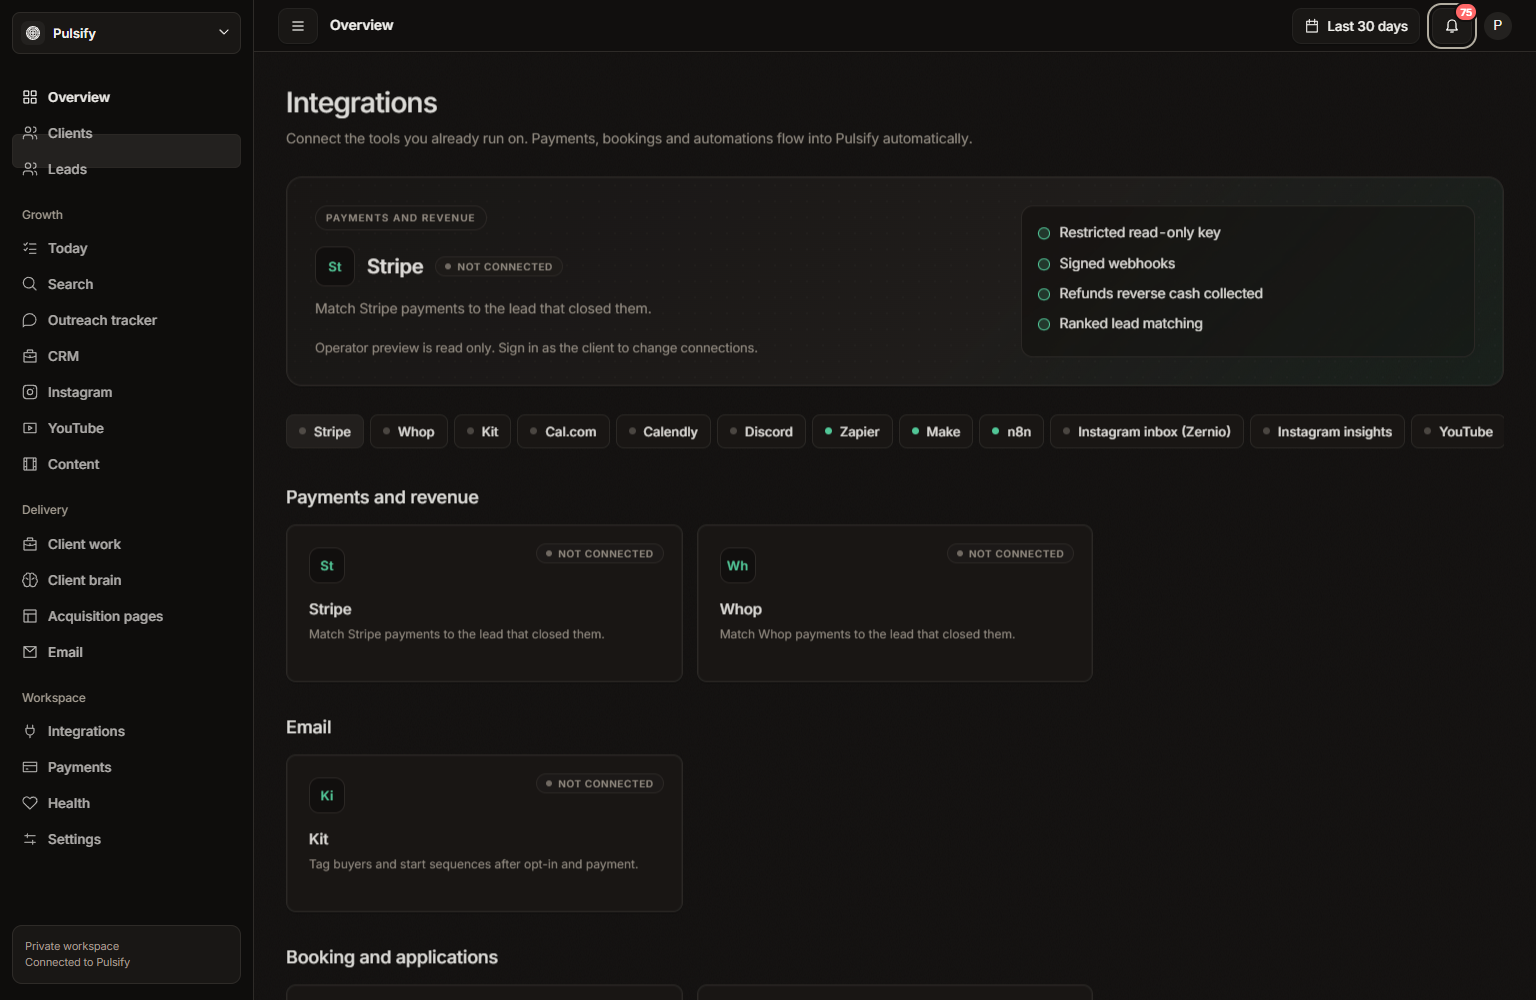
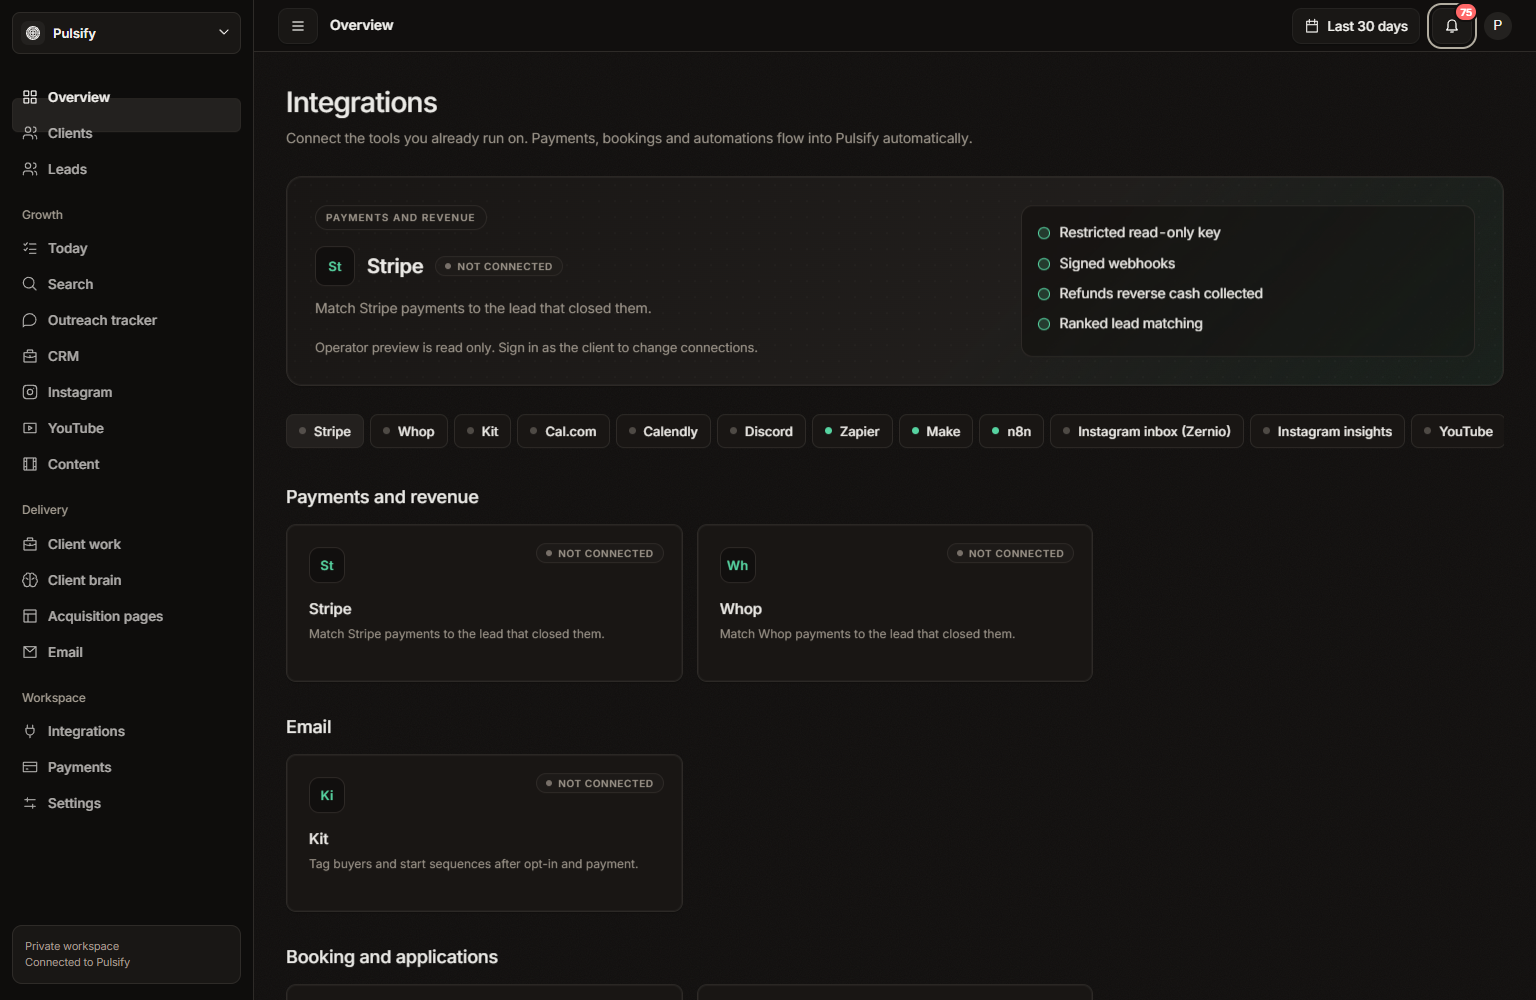
Remove Health from the operator console (founder: unnecessary)

Changed region(s): [[0.2188, 0.093, 0.25, 0.124], [0.0312, 0.837, 0.0625, 0.868], [0.0312, 0.775, 0.0625, 0.806]]

diff --git a/output/standard-preview/admin/phase1.js b/output/standard-preview/admin/phase1.js
@@ -1,7 +1,7 @@
 (() => {
  const {icon,esc,read,write}=PulsifyShell;const shellRoot=document.getElementById('shell');const stash=document.createElement('div');stash.hidden=true;document.body.append(stash);
- const nav=[{label:'',items:[['overview','Overview','grid'],['home','Clients','people'],['leads','Leads','people']]},{label:'Growth',items:[['queue','Today'],['search','Search'],['outreach','Outreach tracker'],['crm','CRM'],['instagram','Instagram'],['youtube','YouTube'],['content','Content']]},{label:'Delivery',items:[['delivery','Client work'],['brain','Client brain'],['campaigns','Acquisition pages'],['email','Email']]},{label:'Workspace',items:[['integrations','Integrations'],['payments','Payments'],['health','Health'],['settings','Settings']]}].map(g=>({...g,items:g.items.map(([id,label,icon])=>({id,label,icon}))}));
- const dashboardViews=['live','crm','payments','health','plan','income','payouts','cashflow','calendar','dashboard'];
+ const nav=[{label:'',items:[['overview','Overview','grid'],['home','Clients','people'],['leads','Leads','people']]},{label:'Growth',items:[['queue','Today'],['search','Search'],['outreach','Outreach tracker'],['crm','CRM'],['instagram','Instagram'],['youtube','YouTube'],['content','Content']]},{label:'Delivery',items:[['delivery','Client work'],['brain','Client brain'],['campaigns','Acquisition pages'],['email','Email']]},{label:'Workspace',items:[['integrations','Integrations'],['payments','Payments'],['settings','Settings']]}].map(g=>({...g,items:g.items.map(([id,label,icon])=>({id,label,icon}))}));
+ const dashboardViews=['live','crm','payments','plan','income','payouts','cashflow','calendar','dashboard'];
  let owned, cleanup;
  let cacheKey='pulsify:bootstrap:v1:operator',bootstrap=null,frames=new Map(),bootstrapEpoch=0;
  const shell=PulsifyShell.mount({container:shellRoot,workspace:'Pulsify',nav,onView:view,onWorkspace:async client=>{if(!client){shell.go('overview');return;}const r=await fetch('/api/impersonate',{method:'POST',headers:{'content-type':'application/json'},body:JSON.stringify({client})});const d=await r.json();if(!r.ok)throw Error(d.error||'Could not open client workspace.');location.href=d.url;},signOut:()=>location.href='/portal/login?operator=1&logout=1'});
@@ -22,6 +22,7 @@
   if(id==='instagram'&&window.PulsifyInstagramView){const holder=document.createElement('div');owned.replaceChildren(holder);cleanup=PulsifyInstagramView.render(holder);return;}
   if(id==='youtube'&&window.PulsifyYouTubeView){const holder=document.createElement('div');owned.replaceChildren(holder);cleanup=PulsifyYouTubeView.render(holder);return;}
   if(id==='payments'&&window.PulsifyIntegrationsView){const holder=document.createElement('div');owned.replaceChildren(holder);PulsifyIntegrationsView.render(holder,{client:bootstrap?.clients?.[0]?.client||'',clients:bootstrap?.clients||[],section:'payments'});return;}
+  if(id==='health'){shell.go('overview');return;}
   if(dashboardViews.includes(id)){
    owned.replaceChildren();owned.hidden=true;PulsifyNativeDashboard.show(id,main).catch(()=>{});return;
   }

diff --git a/output/standard-preview/admin/native-dashboard.js b/output/standard-preview/admin/native-dashboard.js
@@ -8,7 +8,7 @@
   root.classList.toggle('theme-night',document.documentElement.dataset.theme==='dark');
   root.classList.toggle('theme-track',document.documentElement.dataset.theme!=='dark');
   window.PulsifySurface?.enhance(root,{scope:'operator',view:id,go:v=>PulsifyOperatorShell.go(v)});
-  const labels={crm:['Outreach pipeline','Review leads, follow up and keep the next step clear.'],metrics:['YouTube','Track your channel and published videos.'],instagram:['Instagram','Review reach, content and conversations.'],content:['Content','Manage the work you are preparing and publishing.'],sales:['Payments','Review recorded sales and collections.'],live:['Business overview','Your recorded activity and results.'],plan:['Plan','Track progress against your operating plan.'],income:['Income','Review your recorded income.'],payouts:['Payouts','Track recorded payouts.'],cashflow:['Cash flow','Review money in and money out.'],calendar:['Calendar','See your scheduled work.'],health:['Health','Track your personal log.']};
+  const labels={crm:['Outreach pipeline','Review leads, follow up and keep the next step clear.'],metrics:['YouTube','Track your channel and published videos.'],instagram:['Instagram','Review reach, content and conversations.'],content:['Content','Manage the work you are preparing and publishing.'],sales:['Payments','Review recorded sales and collections.'],live:['Business overview','Your recorded activity and results.'],plan:['Plan','Track progress against your operating plan.'],income:['Income','Review your recorded income.'],payouts:['Payouts','Track recorded payouts.'],cashflow:['Cash flow','Review money in and money out.'],calendar:['Calendar','See your scheduled work.']};
   const [title,note]=labels[id]||[requested,''];header.querySelector('h1').textContent=title;header.querySelector('p').textContent=note;
   document.title=title+' | Pulsify';
   if(id==='crm')loadUnmatched();

diff --git a/output/standard-preview/admin/dashboard.html b/output/standard-preview/admin/dashboard.html
@@ -4687,10 +4687,7 @@
       Calendar
     </button>
     <div class="nav-group">Wellness</div>
-    <button data-tab="health">
-      <svg class="ico" viewBox="0 0 24 24"><path d="M20.8 4.6a5.5 5.5 0 0 0-7.8 0L12 5.6l-1-1a5.5 5.5 0 1 0-7.8 7.8l1 1L12 21.2l7.8-7.8 1-1a5.5 5.5 0 0 0 0-7.8z"/></svg>
-      Health <span class="count" id="healthTabCount">—</span>
-    </button>
+    
   </nav>
 
   <div class="sb-foot">
@@ -5956,7 +5953,7 @@ After outputting the Creator Profile, give me one paragraph on which asset to bu
 </section>
 
 <!-- HEALTH -->
-<section class="tab-panel" id="tab-health">
+<section class="tab-panel" id="tab-health" hidden aria-hidden="true">
   <div class="grid">
 
     <!-- Vision band: where I'm taking my health -->
